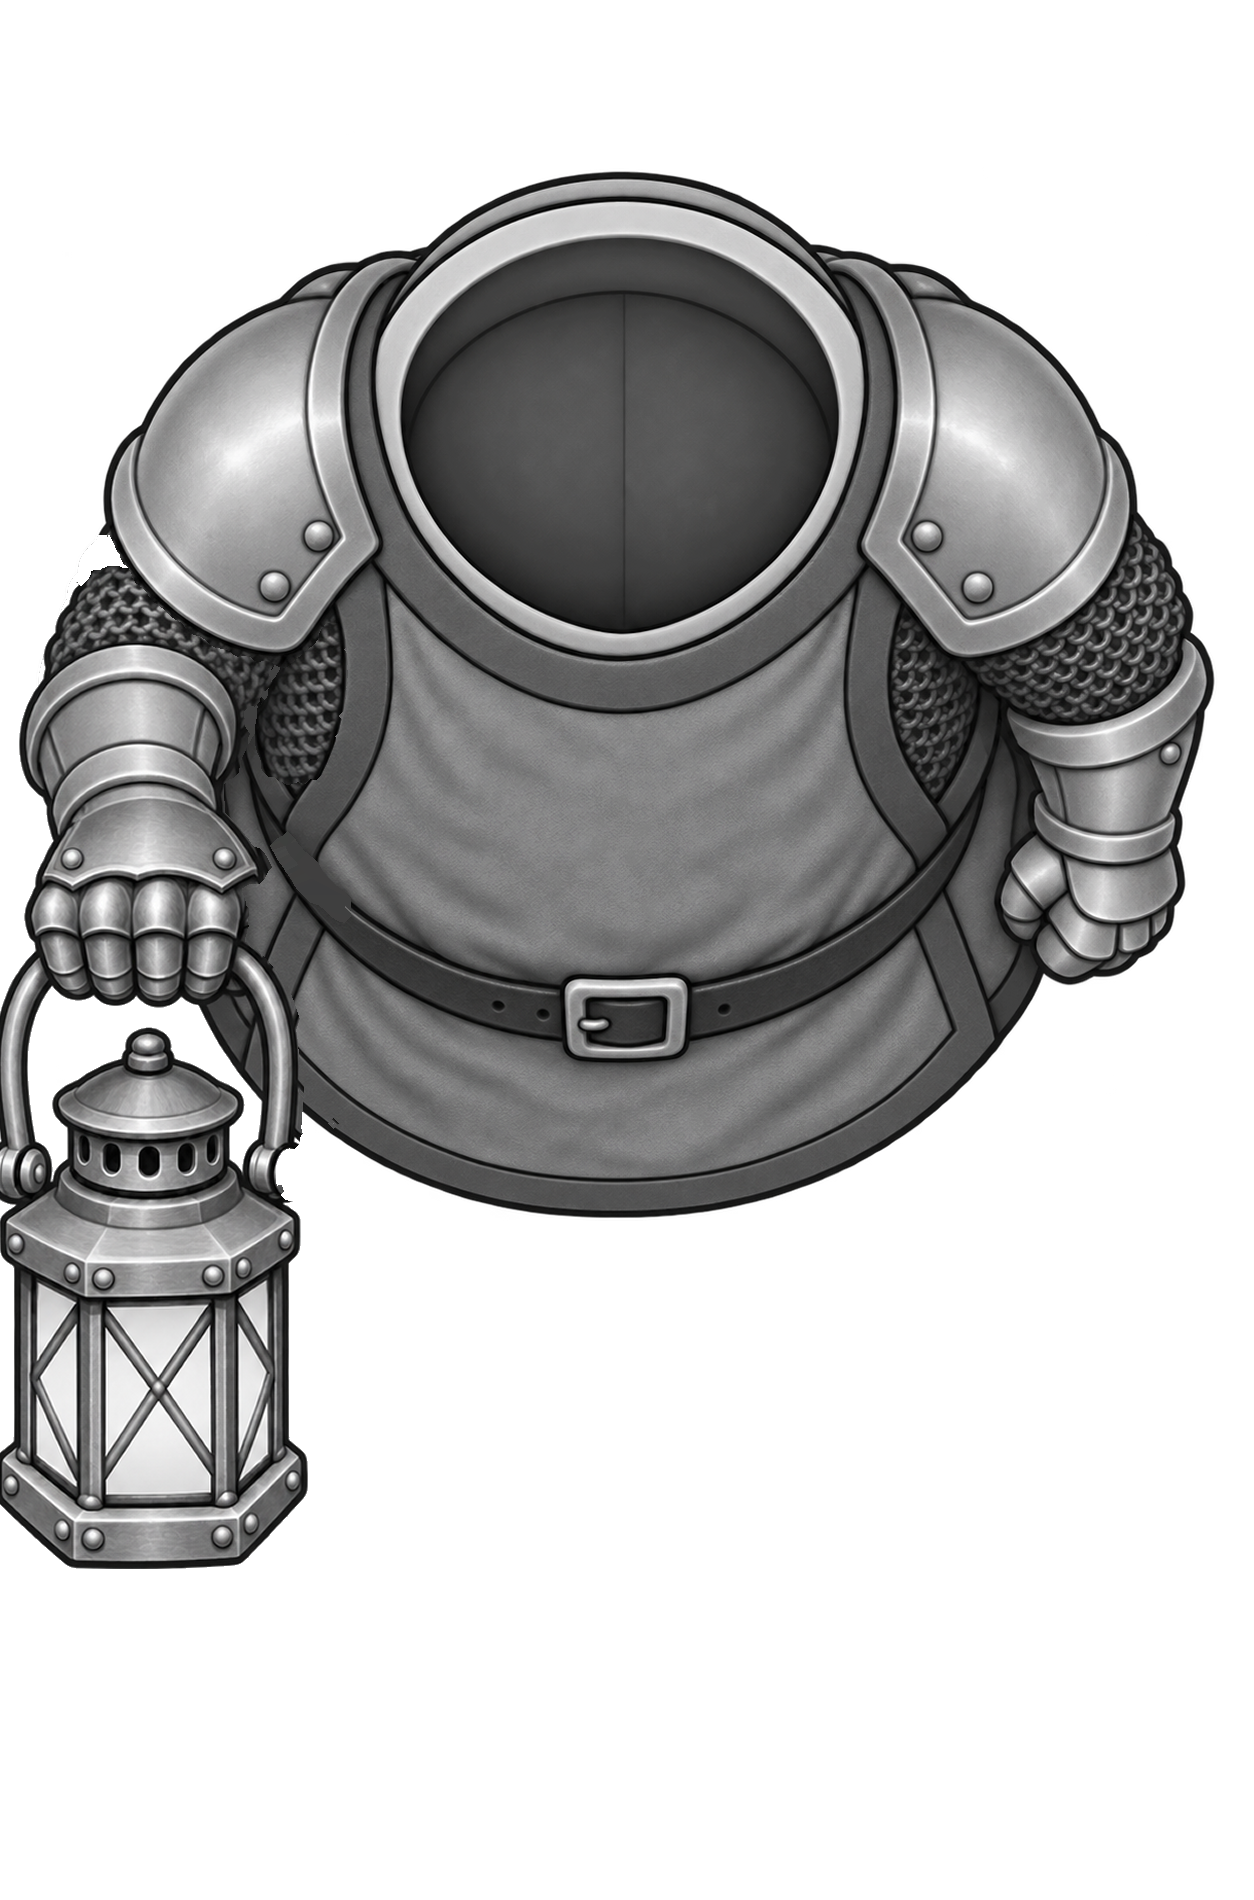
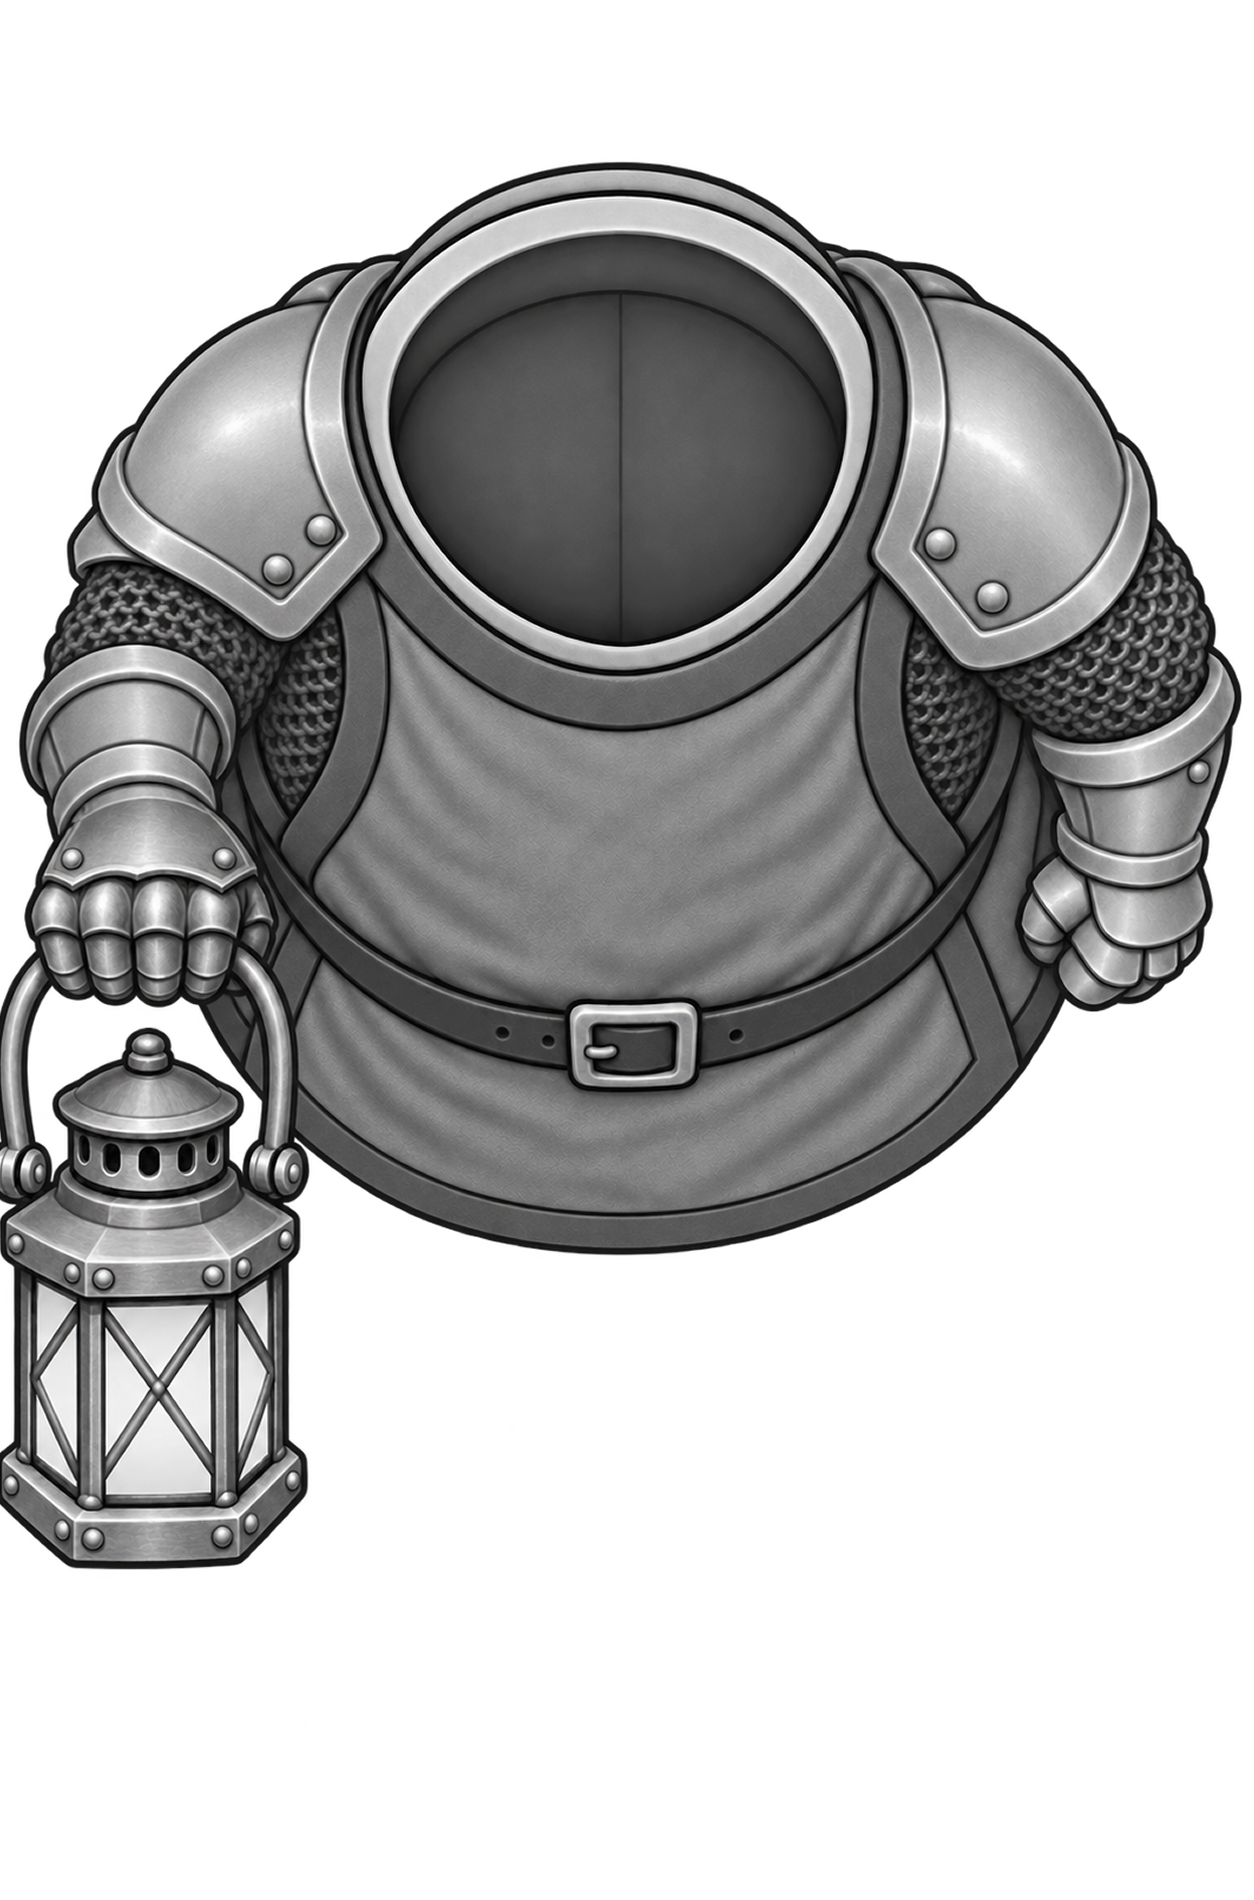
Kit personnages : patrouille de nuit = image complète de GPT (sans greffe)
Claude-Session: https://claude.ai/code/session_01F13QTHtRPRAg87rG7j2jCn

Changed region(s): [[0.0311, 0.0621, 0.9952, 0.6832]]

diff --git a/kit-personnages/outils/lanterne.py b/kit-personnages/outils/lanterne.py
@@ -100,10 +100,16 @@ def garde_reach(tab,bord,metal='#aeb4bc',glow='#ffd98a',emb=None,H=700,**kw):
         a,lab=grd.prep('../grd/rl_pad.png','rl',like='../grd/rl_pad.png',H=1900);yy,xx=np.mgrid[:lab.shape[0],:lab.shape[1]];lum=a[...,:3].mean(-1)
         g=ndi.binary_opening((lum>212)&(a[...,3]>60)&(xx<420)&(yy>1150),iterations=3);gc,gk=ndi.label(g);g=np.isin(gc,[i+1 for i,v in enumerate(ndi.sum(g,gc,range(1,gk+1))) if v>420]);lab[ndi.binary_dilation(g,iterations=3)&(lum>190)&(xx<420)&(yy>1150)]=30      # seulement les vitres, pas les rivets
         gy,gx=np.where(lab==30);box=(xx<gx.max()+75)&(yy>gy.min()-330);lab[box&np.isin(lab,(6,15,16,9))&(lum>120)]=4          # la lanterne et le gantelet : métal
-        lab[np.isin(lab,(6,16))&(yy>1090)&~box]=9;GR['p']=(a,lab);GR['box']=box                                                  # la bordure du bas du tabard
+        lab[np.isin(lab,(6,16))&(yy>1090)&~box]=9
+        lb=box&np.isin(lab,(4,30));cb,kb=ndi.label(ndi.binary_dilation(lb,iterations=4));lb=ndi.binary_fill_holes(cb==cb[gy[0],gx[0]])&box&(a[...,3]>60)      # la lanterne et le gantelet, d'un bloc
+        sm,sk=ndi.label(np.isin(lab,(5,9,16,6))&ndi.binary_dilation(lb,iterations=22));ssz=ndi.sum(sm>0,sm,range(1,sk+1))
+        for i in range(sk):
+            if ssz[i]<1600: lab[sm==i+1]=4;lb|=sm==i+1                                  # petits morceaux isolés sur l'anse et ses pivots : métal
+        ly,lx=np.where(lb);piv=(xx>gx.max()-10)&(xx<gx.max()+62)&(yy>gy.min()-190)&(yy<gy.min()-40)&np.isin(lab,(5,9,16,6))&(lum>55);print('pivot',int(piv.sum()));lab[piv]=4;lb|=piv   # pivot droit de l'anse
+        odd=lb&~np.isin(lab,(4,30));lab[odd&(lum>110)]=4;lab[odd&(lum<=110)]=6;GR['p']=(a,lab);GR['box']=box;GR['lantp']=lb                                                  # la bordure du bas du tabard
     a,lab=GR['p'];grd.G[30]=1.0;c=grd.char(a[:1400],lab[:1400],tab,bord,metal=metal,emb=emb,**kw)
     full.G.update(grd.G);full.G.update({30:1.0});t=np.array(full.tint(a,lab,{4:metal,30:glow,5:tab,9:bord,15:'#6a6e76',16:'#3e3a3a',6:'#3a2a1c',7:'#2a2622'})).astype(float)
-    yy,xx=np.mgrid[:lab.shape[0],:lab.shape[1]];m=GR['box']&(lab>0)&~np.isin(lab,(5,9))
+    m=ndi.binary_dilation(GR['lantp'],iterations=3)&(lab>0)&np.isin(lab,(4,30,6))
     w=np.array(Image.fromarray((m*255).astype('uint8')).filter(ImageFilter.GaussianBlur(0.8))).astype(float)/255;t[...,3]*=w
     c2=Image.new('RGBA',(512,H));c2.alpha_composite(c);c2.alpha_composite(tall(Image.fromarray(t.astype('uint8')),H));return c2
 

diff --git a/kit-personnages/LISEZMOI.md b/kit-personnages/LISEZMOI.md
@@ -60,4 +60,4 @@ Une région peut avoir plusieurs gardes. L'Église de Lathandre n'est pas une ga
 - **Bûcheron (validé)** : fermier, pose à la fourche, où tout l'outil est remplacé par la hache de bûcheron (`carte.axe_farmer`), glissée sous les doigts. La hache d'armes du garde (`item_axe.png`) reste disponible en variante.
 - **Lanterne (validée)** : `objets/hand_lantern.png` est un poing fermé sur l'anse d'une lanterne, dessiné seul par GPT (sans bracelet ni manche). `outils/advlant4.py` le pose au bout du bras tendu de la pose « reach » : la main ouverte est retirée d'après ses matières, le haut du poing glisse sous le bracelet, et sous le bord du bracelet le poing et la lanterne sont au premier plan (devant le manteau). Réglage validé : échelle 0,56, la main remplit la largeur de la manche sans dépasser le bracelet. Résultat : `nain/corps/aventurier/body_dwarf_adventurer_reach_lantern.png` (toile plus haute, la lanterne descend sous le cadre habituel), aperçu dans `planches/lanterne.png`. Les essais de greffe d'une main dessinée avec son bracelet ont échoué (jonction difforme) : toujours demander la main SEULE.
 - **Veilleur (validé)** : mage, bras tendu, lanterne en main nue — `nain/corps/mage/body_dwarf_robe_reach_lantern.png`, aperçu `planches/veilleur.png`. Fait par `outils/lanterne.py` (`graft2`, `veilleur`), la méthode à réutiliser pour toute main posée sous un bracelet : le poing prend exactement la largeur du bracelet et se centre dessous ; il remonte jusqu'à remplir l'ouverture ; ordre des couches vêtement < poing et lanterne < bracelet ; les encoches du bord du bracelet sont fermées (sinon la main « traverse » le métal) ; l'ancienne main est retirée avec son trait et le vêtement rebouché. Le poing ne pivote jamais (il s'efface à moitié).
-- **Patrouille de nuit** : `nain/corps/garde/body_dwarf_guard_reach_lantern.png` = le garde VALIDÉ (tabard, bordure, gorgerin, épaulières, bras droit) + seulement le bras tendu, le gantelet et la lanterne dessinés d'un seul tenant par GPT (`source_gpt_reach_lantern.png`, dont le torse redessiné n'est pas repris), glissés sous l'épaulière validée (`lanterne.garde_reach2`). Aperçu `planches/patrouille_de_nuit.png`. Leçon : demander à GPT le bras ET l'objet d'un seul tenant, et faire le raccord sous une pièce qui le cache (épaulière).
+- **Patrouille de nuit** : `nain/corps/garde/body_dwarf_guard_reach_lantern.png` = l'image COMPLÈTE dessinée par GPT (garde, bras tendu, gantelet et lanterne d'un seul tenant), simplement remise à l'échelle du garde validé (`lanterne.garde_reach`). Son torse diffère un peu du garde validé (gorgerin plus simple, bordure seulement en bas). L'essai de ne garder que le bras sur le torse validé (`garde_reach2`) laissait une coche dans le bras : abandonné. Aperçu `planches/patrouille_de_nuit.png`.
